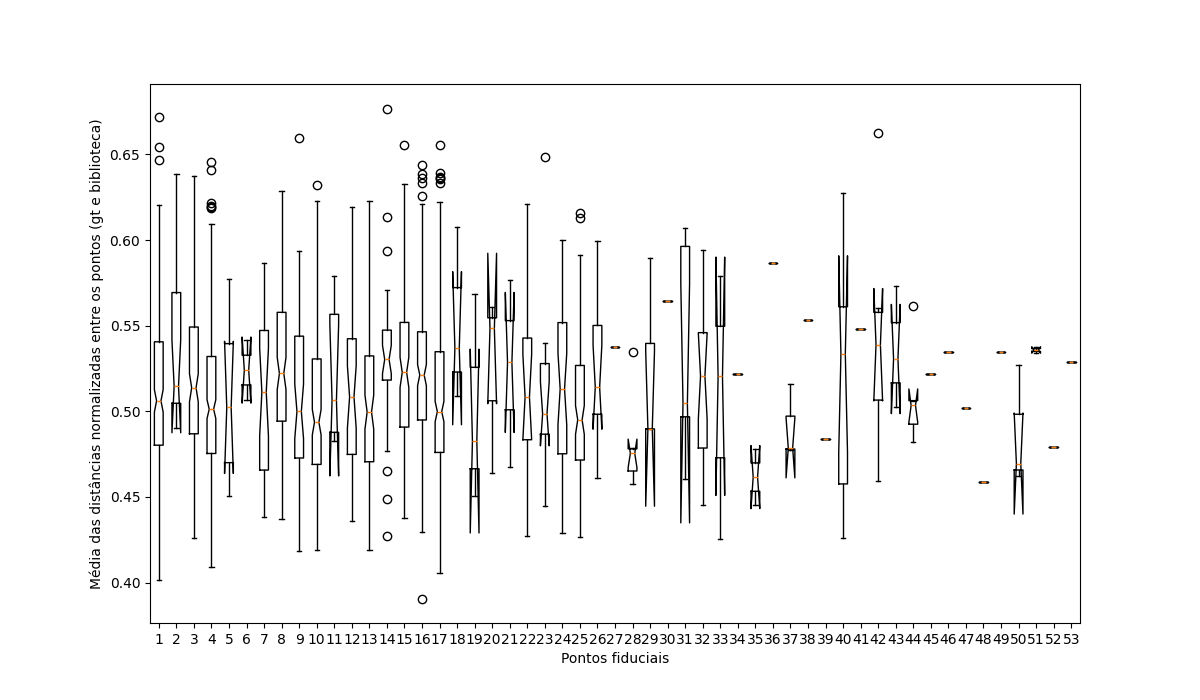
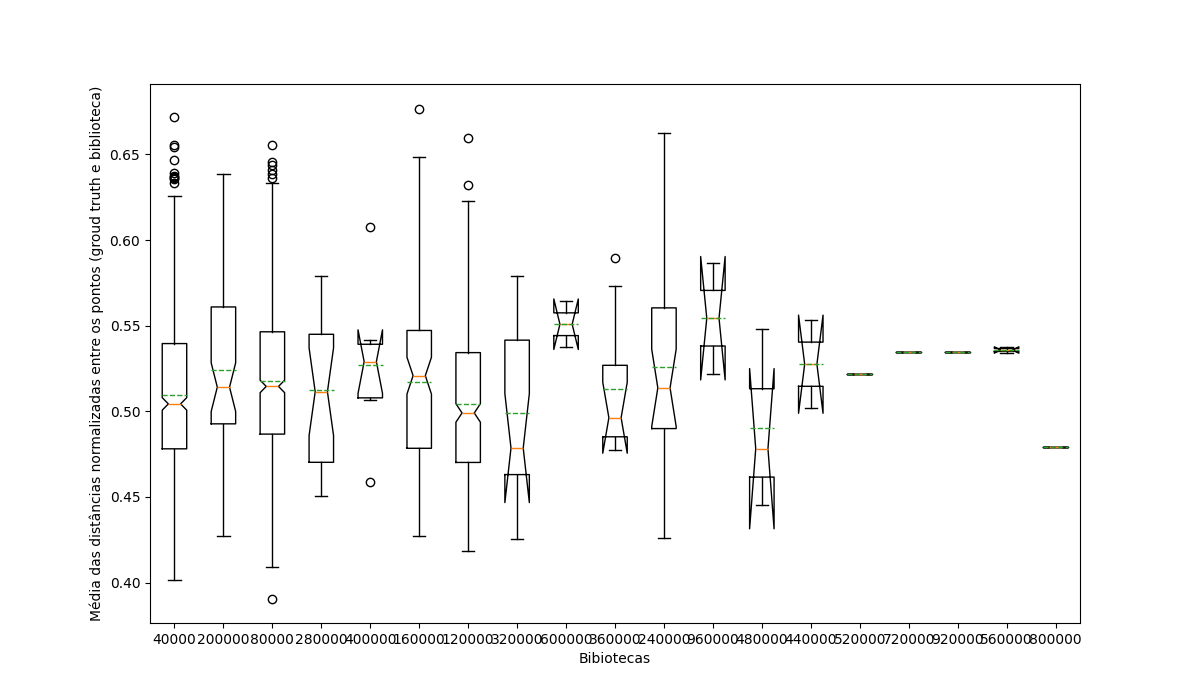
fixes

diff --git a/src/creates_graph.py b/src/creates_graph.py
@@ -5,9 +5,9 @@ import os
 
 def print_graph(means, graph_name, positions=None):
     plt.figure(figsize=(12, 7))
-    plt.boxplot(means, positions)
-    plt.xlabel('Pontos fiduciais')
-    plt.ylabel('Média das distâncias normalizadas entre os pontos (gt e biblioteca)')
+    plt.boxplot(means, positions, showmeans=True, meanline=True, tick_labels=positions)
+    plt.xlabel('Bibiotecas')
+    plt.ylabel('Média das distâncias normalizadas entre os pontos (groud truth e biblioteca)')
     plt.savefig(f'{graph_name}.png')
 
 def get_face_detected(line):
@@ -64,7 +64,7 @@ def all_distances_boxplot():
                 soma_key = int( soma/100 + 1) * 100
             distances_tools_list.append(distance_means)
             
-            print_graph(distances_tools_list, "distances_3", ["Face Alignment", "ML Kit"])
+    print_graph(distances_tools_list, "distances_4", ["Face Alignment", "ML Kit"])
 
 def distances_per_point(file_path):
     lines = get_file_lines(file_path)
@@ -100,7 +100,7 @@ def distances_per_resolution_area(file_path):
         
         #monta estrutura de distancia por resolucao
         resolution_area = get_resolution_area(line)
-        area_key = int( resolution_area/10000 + 1) * 10000
+        area_key = int( resolution_area/40000 + 1) * 40000
         
         resolution_area_list.append(resolution_area)
 
@@ -160,17 +160,19 @@ def accuracy_face_per_resolution():
             arrei.append( round(count_truth * 100 / len(teste), 2))
 
         x_keys = sorted(list(resolution_distances.keys()))
-        plt.plot(list(map(lambda x: str(int(x/10000)), x_keys)), arrei, label=file_path, marker='o')
+        #plt.plot(list(map(lambda x: str(int(x/10000)), x_keys)), arrei, label=file_path, marker='o')
+        plt.plot(x_keys, arrei, label=file_path, marker='o')
     blabla = list(map(lambda x: str(int(x/10000)), x_keys))
     #plt.xticks(range(len(blabla)), blabla)
+    plt.xticks(x_keys)
     #plt.xticks(blabla)
-    plt.xticks(blabla)
     plt.xlabel("Eixo X")
-    plt.ylabel("Eixo Y")
+    plt.ylabel("Percentual de acerto")
     plt.legend()
     #plt.grid(True)
     # Mostra o gráfico
-    plt.show()
+    #plt.show()
+    plt.savefig('accuracy_face.png')
 
 def run():
     resolution_distances = {}
@@ -204,7 +206,7 @@ def run():
 file_path = "output/cfp_fa_result.txt"
 
 #distances_per_resolution_area(file_path)
-distances_per_point(file_path)
+#distances_per_point(file_path)
 #all_distances_boxplot()
-#accuracy_face_per_resolution()
+accuracy_face_per_resolution()
 #get_match_result("name: 083\profile\02.jpg, resolution: 1336x1220, color: RGB, face detected: Multiple, distances: [], mean: 0")
